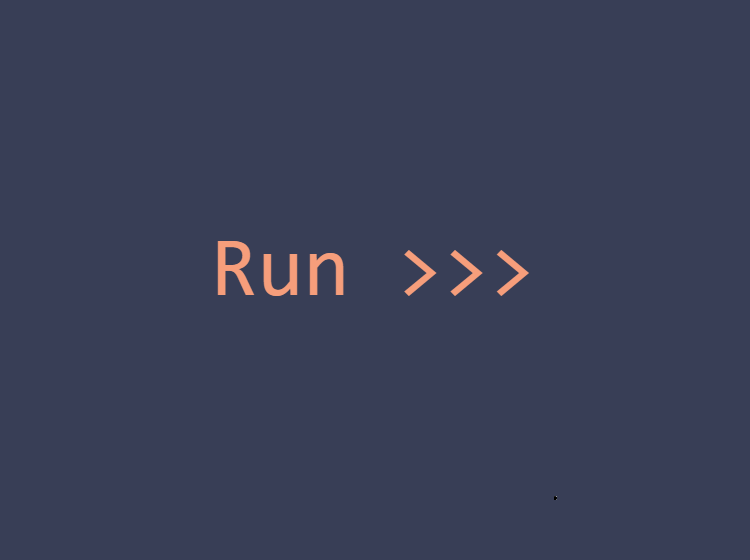
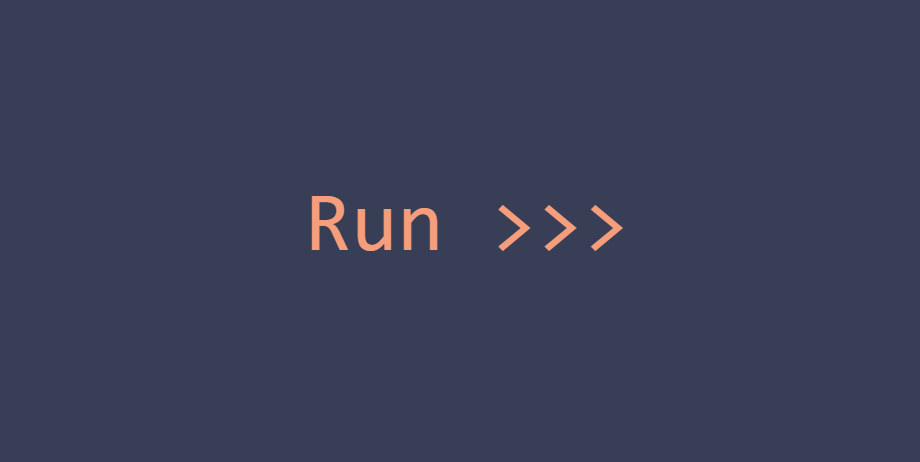
init

Changed region(s): [[0.276, 0.4242, 0.4907, 0.5455], [0.5213, 0.4242, 0.7053, 0.5455]]

diff --git a/src/css/style.css b/src/css/style.css
@@ -22,14 +22,14 @@ html, body {
     width:90%;
     height:80%;
     color: #f69e7b;
-    font-size: 42px;
+    font-size: 40px;
     background-color: #383e56;
     border: none;
     outline: none;
-    border-radius: 15px;
+    border-radius: 12px;
 
     margin: 25px;
-    margin-top:5px;
+    margin-top:2px;
     font-family: Consolas, Lucida Console, monospace;
 }
 #run:hover {

diff --git a/index.html b/index.html
@@ -53,7 +53,7 @@
 //   https://github.com/matiasvlevi/Dann/wiki
 //
 // Github Repo:
-//   https://github.com/matiasvlevi/Dann/</textarea>
+//   https://github.com/matiasvlevi/Dann</textarea>
                 <script>
                     var editor = startEditor();
                 </script>
